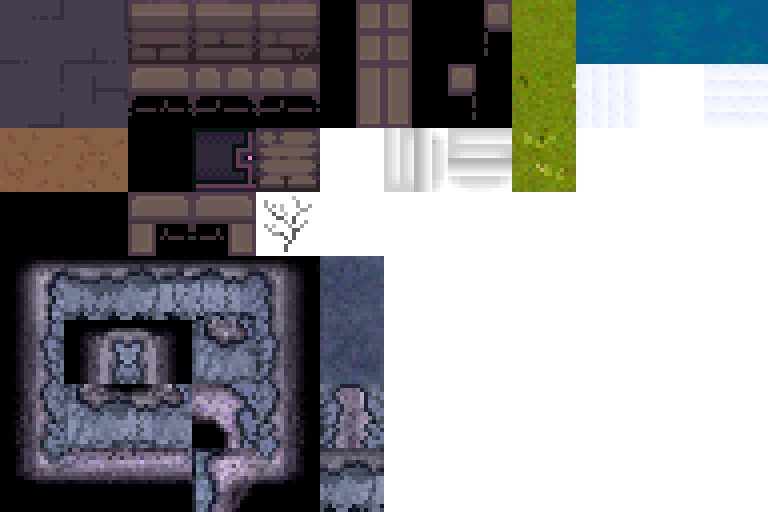
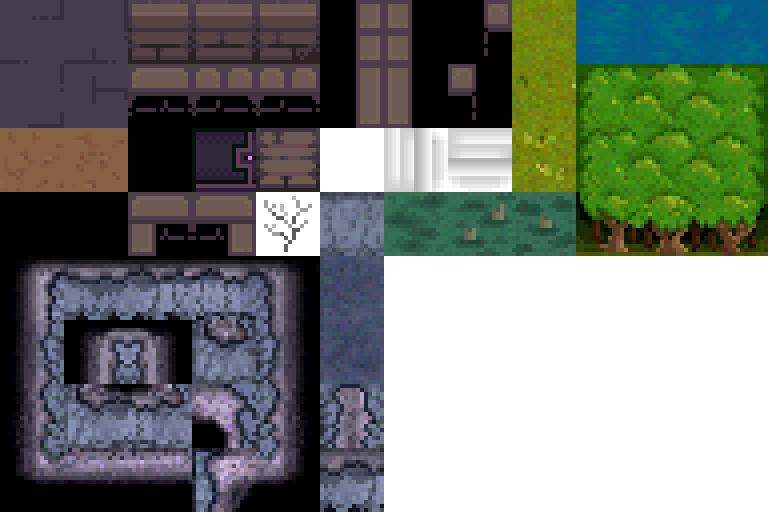
more terrain

Changed region(s): [[0.4062, 0.125, 1.0, 0.5]]

diff --git a/src/main/kotlin/render/tileholders/WallTile.kt b/src/main/kotlin/render/tileholders/WallTile.kt
@@ -28,29 +28,41 @@ class WallTile(
         level?.also { level ->
             var bucket = variants[Slot.FULL]
             if (visibleAt(level, x, y)) {
-                if (!neighborTo(level,x,y,WEST) && !neighborTo(level,x,y,EAST) && !neighborTo(level,x,y,SOUTH) && neighborTo(level,x,y,NORTH)) {
+                val nWest = neighborTo(level,x,y,WEST)
+                val nEast = neighborTo(level,x,y,EAST)
+                val nNorth = neighborTo(level,x,y,NORTH)
+                val nSouth = neighborTo(level,x,y,SOUTH)
+                val vWest = visibleTo(level,x,y,WEST)
+                val vEast = visibleTo(level,x,y,EAST)
+                val vNorth = visibleTo(level,x,y,NORTH)
+                val vSouth = visibleTo(level,x,y,SOUTH)
+                if (!nWest && !nEast && !nSouth && nNorth) {
                     bucket = variants[Slot.CAP_BOTTOM]
-                } else if (!neighborTo(level,x,y,WEST) && !neighborTo(level,x,y,EAST) && !neighborTo(level,x,y,NORTH) && neighborTo(level,x,y,SOUTH)) {
+                } else if (!nWest && !nEast && !nNorth && nSouth) {
                     bucket = variants[Slot.CAP_TOP]
-                } else if (!neighborTo(level,x,y,NORTH) && !neighborTo(level,x,y,SOUTH) && !neighborTo(level,x,y,WEST) && neighborTo(level,x,y,EAST)) {
+                } else if (!nWest && !nSouth && !nNorth && nEast) {
                     bucket = variants[Slot.CAP_LEFT]
-                } else if (!neighborTo(level,x,y,NORTH) && !neighborTo(level,x,y,SOUTH) && !neighborTo(level,x,y,EAST) && neighborTo(level,x,y,WEST)) {
+                } else if (!nEast && !nSouth && !nNorth && nWest) {
                     bucket = variants[Slot.CAP_RIGHT]
-                } else if (!visibleTo(level, x, y, EAST)) {
-                    if (visibleTo(level, x, y, SOUTH)) {
+                } else if (nNorth && !nSouth && nEast && !nWest && vSouth) {
+                    bucket = variants[Slot.LEFTTOP]
+                } else if (nNorth && !nSouth && !nEast && nWest && vSouth) {
+                    bucket = variants[Slot.RIGHTTOP]
+                } else if (!vEast) {
+                    if (vSouth) {
                         if (openTo(level, x, y, NORTH)) {
-                            if (neighborTo(level,x,y,SOUTH)) {
+                            if (nNorth) {
                                 bucket = variants[Slot.OUTSIDE_RIGHTBOTTOM]
                             } else {
                                 bucket = variants[Slot.TOP]
                             }
-                        } else if (!neighborTo(level,x,y,SOUTH)) {
-                            if (neighborTo(level, x, y, NORTH)) {
+                        } else if (!nSouth) {
+                            if (nNorth) {
                                 bucket = variants[Slot.LEFTTOP]
                             } else {
                                 bucket = variants[Slot.TOP]
                             }
-                        } else if (neighborTo(level,x,y,WEST)) {
+                        } else if (nWest) {
                             bucket = variants[Slot.OUTSIDE_RIGHTTOP]
                         } else {
                             bucket = variants[Slot.RIGHT]
@@ -58,21 +70,21 @@ class WallTile(
                     } else {
                         bucket = variants[Slot.RIGHTBOTTOM]
                     }
-                } else if (!visibleTo(level, x, y, WEST)) {
-                    if (visibleTo(level, x, y, SOUTH)) {
+                } else if (!vWest) {
+                    if (vSouth) {
                         if (openTo(level, x, y, NORTH)) {
-                            if (neighborTo(level,x,y,SOUTH)) {
+                            if (nSouth) {
                                 bucket = variants[Slot.OUTSIDE_LEFTBOTTOM]
                             } else {
                                 bucket = variants[Slot.TOP]
                             }
-                        } else if (!neighborTo(level,x,y,SOUTH)) {
-                            if (neighborTo(level, x, y, NORTH)) {
+                        } else if (!nSouth) {
+                            if (nNorth) {
                                 bucket = variants[Slot.RIGHTTOP]
                             } else {
                                 bucket = variants[Slot.TOP]
                             }
-                        } else if (neighborTo(level,x,y,EAST)) {
+                        } else if (nEast) {
                             bucket = variants[Slot.OUTSIDE_LEFTTOP]
                         } else {
                             bucket = variants[Slot.LEFT]
@@ -80,19 +92,19 @@ class WallTile(
                     } else {
                         bucket = variants[Slot.LEFTBOTTOM]
                     }
-                } else if (!visibleTo(level, x, y, NORTH)) {
+                } else if (!vNorth) {
                     bucket = variants[Slot.TOP]
-                } else if (!visibleTo(level, x, y, SOUTH)) {
+                } else if (!vSouth) {
                     bucket = variants[Slot.BOTTOM]
-                } else if (!visibleTo(level, x, y, SOUTHEAST) && neighborTo(level, x, y, EAST) && neighborTo(level, x, y, SOUTH)) {
+                } else if (!visibleTo(level, x, y, SOUTHEAST) && nEast && nSouth) {
                     bucket = variants[Slot.OUTSIDE_RIGHTBOTTOM]
-                } else if (!visibleTo(level, x, y, SOUTHWEST) && neighborTo(level, x, y, WEST) && neighborTo(level, x, y, SOUTH)) {
+                } else if (!visibleTo(level, x, y, SOUTHWEST) && nWest && nSouth) {
                     bucket = variants[Slot.OUTSIDE_LEFTBOTTOM]
-                } else if (!visibleTo(level, x, y, NORTHEAST) && neighborTo(level, x, y, NORTH) && neighborTo(level, x, y, EAST)) {
+                } else if (!visibleTo(level, x, y, NORTHEAST) && nNorth && nEast) {
                     bucket = variants[Slot.LEFTTOP]
-                } else if (!visibleTo(level, x, y, NORTHWEST) && neighborTo(level, x, y, NORTH) && neighborTo(level, x, y, WEST)) {
+                } else if (!visibleTo(level, x, y, NORTHWEST) && nNorth && nWest) {
                     bucket = variants[Slot.RIGHTTOP]
-                } else if (neighborTo(level,x,y,NORTH) && !neighborTo(level,x,y,SOUTH) && (!visibleTo(level,x,y,NORTHEAST) || !visibleTo(level,x,y,NORTHWEST))) {
+                } else if (nNorth && !nSouth && (!visibleTo(level,x,y,NORTHEAST) || !visibleTo(level,x,y,NORTHWEST))) {
                     bucket = variants[Slot.TOP]
                 }
             }

diff --git a/src/main/kotlin/render/tilesets/TerrainTileSet.kt b/src/main/kotlin/render/tilesets/TerrainTileSet.kt
@@ -35,6 +35,12 @@ fun TerrainTileSet() =
             add(0.2f, 8, 2)
         })
 
+        setTile(Glyph.SWAMP, VariantsTile(this).apply {
+            add(0.4f, 6, 3)
+            add(0.3f, 7, 3)
+            add(0.3f, 8, 3)
+        })
+
         setTile(Glyph.BRICK_WALL, WallTile(this, Glyph.BRICK_WALL).apply {
             add(WallTile.Slot.TOP, 0.33f, 2, 0)
             add(WallTile.Slot.TOP, 0.33f, 3, 0)
@@ -83,7 +89,28 @@ fun TerrainTileSet() =
             add(WallTile.Slot.CAP_TOP, 1f, 5, 6)
             add(WallTile.Slot.CAP_LEFT, 1f, 5, 7)
             add(WallTile.Slot.CAP_RIGHT, 1f, 5, 7)
-            add(WallTile.Slot.FULL, 1f, 1, 4)
+            add(WallTile.Slot.FULL, 1f, 5, 3)
+        })
+
+        setTile(Glyph.FOREST_WALL, WallTile(this, Glyph.FOREST_WALL).apply {
+            add(WallTile.Slot.TOP, 1f, 10, 3)
+            add(WallTile.Slot.LEFTTOP, 1f, 9, 3)
+            add(WallTile.Slot.RIGHTTOP, 1f, 11, 3)
+            add(WallTile.Slot.OUTSIDE_LEFTTOP, 1f, 9, 1)
+            add(WallTile.Slot.OUTSIDE_RIGHTTOP, 1f, 11, 1)
+            add(WallTile.Slot.LEFT, 1f, 11, 2)
+            add(WallTile.Slot.RIGHT, 1f, 9, 2)
+            add(WallTile.Slot.LEFTBOTTOM, 1f, 10, 2)
+            add(WallTile.Slot.OUTSIDE_LEFTBOTTOM, 1f, 11, 1)
+            add(WallTile.Slot.BOTTOM, 1f, 10, 1)
+            add(WallTile.Slot.RIGHTBOTTOM, 1f, 10, 2)
+            add(WallTile.Slot.OUTSIDE_RIGHTBOTTOM, 1f, 9, 1)
+            add(WallTile.Slot.CAP_BOTTOM, 1f, 10, 3)
+            add(WallTile.Slot.CAP_TOP, 1f, 10, 1)
+            add(WallTile.Slot.CAP_LEFT, 1f, 9, 3)
+            add(WallTile.Slot.CAP_RIGHT, 1f, 11, 3)
+            add(WallTile.Slot.FULL, 1f, 10, 2)
+
         })
 
         setTile(Glyph.WALL_DAMAGE, SimpleTile(this, 4, 3))

diff --git a/src/main/kotlin/world/terrains/Walls.kt b/src/main/kotlin/world/terrains/Walls.kt
@@ -26,13 +26,14 @@ sealed class Wall(
     ) : TerrainData(Type.GENERIC_WALL)
 
     open fun bumpMsg() = "You bump into solid rock."
+    open fun isDiggable() = true
     open fun digResult(): Thing? = null
-    abstract fun digToFloorTerrain(): Terrain.Type
+    open fun digToFloorTerrain(): Terrain.Type = Terrain.Type.TERRAIN_CAVEFLOOR
 
     override fun onBump(actor: Actor, x: Int, y: Int, data: TerrainData?) {
         actor.level()?.also { level ->
             val weapon = actor.meleeWeapon()
-            if (weapon.canDig(type)) {
+            if (isDiggable() && weapon.canDig(type)) {
                 Speaker.world(Speaker.SFX.DIG, source = actor.xy)
                 level.addSpark(Smoke().at(actor.xy.x, actor.xy.y))
                 if (actor is Player && !actor.dangerMode) {
@@ -82,4 +83,9 @@ object CaveWall : Wall(Type.TERRAIN_BRICKWALL, Glyph.CLIFF_WALL, 4f) {
     override fun bumpMsg() = "You bump into a rock face."
     override fun digResult() = if (Dice.chance(0.4f)) Rock() else null
     override fun digToFloorTerrain() = Terrain.Type.TERRAIN_CAVEFLOOR
+}
+
+object ForestWall : Wall(Type.TERRAIN_FORESTWALL, Glyph.FOREST_WALL, 4f) {
+    override fun isDiggable() = false
+    override fun bumpMsg() = "The forest is too thick to pass this way."
 }

diff --git a/src/main/kotlin/world/terrains/Terrain.kt b/src/main/kotlin/world/terrains/Terrain.kt
@@ -25,10 +25,12 @@ sealed class Terrain(
         fun get(type: Type) = when (type) {
             Type.TERRAIN_BRICKWALL -> BrickWall
             Type.TERRAIN_CAVEWALL -> CaveWall
+            Type.TERRAIN_FORESTWALL -> ForestWall
             Type.TERRAIN_CAVEFLOOR -> CaveFloor
             Type.TERRAIN_STONEFLOOR -> StoneFloor
             Type.TERRAIN_DIRT -> Dirt
             Type.TERRAIN_GRASS -> Grass
+            Type.TERRAIN_SWAMP -> Swamp
             Type.TERRAIN_WATER -> Water
             Type.TERRAIN_PORTAL_DOOR -> PortalDoor
             else -> throw RuntimeException("tried to get(terrainType) for un-instantiatable type $type !")
@@ -49,10 +51,12 @@ sealed class Terrain(
         GENERIC_FLOOR,
         TERRAIN_BRICKWALL,
         TERRAIN_CAVEWALL,
+        TERRAIN_FORESTWALL,
         TERRAIN_STONEFLOOR,
         TERRAIN_CAVEFLOOR,
         TERRAIN_DIRT,
         TERRAIN_GRASS,
+        TERRAIN_SWAMP,
         TERRAIN_WATER,
         TERRAIN_PORTAL_DOOR,
     }

diff --git a/src/main/kotlin/world/cartos/Carto.kt b/src/main/kotlin/world/cartos/Carto.kt
@@ -213,12 +213,12 @@ abstract class Carto(
         return connections
     }
 
-    protected fun removeDeadEnds(): Boolean {
+    protected fun removeDeadEnds(type: Terrain.Type = Terrain.Type.TERRAIN_BRICKWALL): Boolean {
         var removed = false
         forEachCell { x, y ->
             if (!isRock(x, y)) {
                 if (cardinalBlockerCount(x, y) == 3) {
-                    setTerrain(x, y, Terrain.Type.TERRAIN_BRICKWALL)
+                    setTerrain(x, y, type)
                     removed = true
                 }
             }

diff --git a/src/main/kotlin/world/cartos/LevelCarto.kt b/src/main/kotlin/world/cartos/LevelCarto.kt
@@ -74,7 +74,7 @@ class LevelCarto(
 
         var deadEnds = true
         while (deadEnds) {
-            deadEnds = removeDeadEnds()
+            deadEnds = removeDeadEnds(Terrain.Type.TERRAIN_BRICKWALL)
         }
 
         addDoor(worldDest)
@@ -82,6 +82,8 @@ class LevelCarto(
         addLights()
 
         forEachCell { x, y -> chunk.setRoofed(x - chunk.x, y - chunk.y, Chunk.Roofed.INDOOR) }
+
+        setOverlaps()
     }
 
     private fun growMaze(startX: Int, startY: Int, winding: Float, regionId: Int) {

diff --git a/src/main/kotlin/world/terrains/Floors.kt b/src/main/kotlin/world/terrains/Floors.kt
@@ -135,3 +135,8 @@ object Grass : Floor(Type.TERRAIN_GRASS, Glyph.GRASS) {
     override fun overlapsOn() = setOf(Type.TERRAIN_STONEFLOOR, Type.TERRAIN_DIRT)
     override fun stepSound(actor: Actor) = Speaker.SFX.STEPGRASS
 }
+
+object Swamp : Floor(Type.TERRAIN_SWAMP, Glyph.SWAMP) {
+    override fun moveSpeed(actor: Actor) = 1.8f
+    override fun stepSound(actor: Actor) = Speaker.SFX.STEPDIRT
+}

diff --git a/src/main/kotlin/things/Scenery.kt b/src/main/kotlin/things/Scenery.kt
@@ -26,7 +26,7 @@ sealed class Scenery : Thing() {
 
 @Serializable
 sealed class Tree : Scenery() {
-    override fun isOpaque() = true
+    override fun isOpaque() = false
     override fun walkOnMsg() = if (Dice.chance(0.3f)) treeMsg() else ""
     open fun treeMsg() = "You hack through the dense trees."
     override fun moveSpeedPast(actor: Actor): Float? = 1.4f

diff --git a/src/main/kotlin/world/cartos/WorldCarto.kt b/src/main/kotlin/world/cartos/WorldCarto.kt
@@ -41,7 +41,7 @@ class WorldCarto(
             val n2 = Perlin.noise(x * 0.02, y * 0.03, 8.12) +
                     Perlin.noise(x * 0.041, y * 0.018, 11.17) * 0.8
             if (n2 > 0.01) {
-                carve(x, y, 0, Terrain.Type.TERRAIN_CAVEWALL)
+                carve(x, y, 0, Terrain.Type.TERRAIN_FORESTWALL)
             }
         }
 

diff --git a/src/main/kotlin/render/tilesets/Glyph.kt b/src/main/kotlin/render/tilesets/Glyph.kt
@@ -8,10 +8,12 @@ enum class Glyph {
 
     BRICK_WALL,
     CLIFF_WALL,
+    FOREST_WALL,
     CAVE_FLOOR,
     STONE_FLOOR,
     DIRT,
     GRASS,
+    SWAMP,
     WATER,
     PORTAL_DOOR,
     WALL_DAMAGE,
